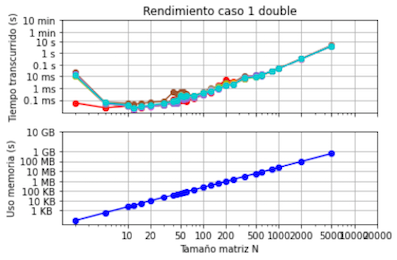
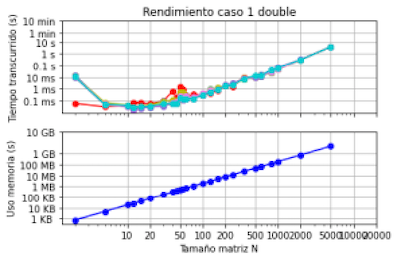
Entrega 4

Changed region(s): [[0.0, 0.4669, 0.9975, 0.9961], [0.0, 0.0, 0.9673, 0.4669]]

diff --git a/timing_inv_caso_1_longdouble.py b/timing_inv_caso_1_longdouble.py
@@ -31,7 +31,7 @@ for i in range(10):
     
         dt = t2 - t1
         
-        size = 3 * (n**2) * 8
+        size = 3 * (n**2) * 128
         
         dts.append(dt)
         memory.append(size)

diff --git a/timing_inv_caso_2_longdouble.py b/timing_inv_caso_2_longdouble.py
@@ -29,7 +29,7 @@ for i in range(10):
     
         dt = t2 - t1
         
-        size = 3 * (n**2) * 8
+        size = 3 * (n**2) * 128
         
         dts.append(dt)
         memory.append(size)

diff --git a/timing_inv_caso_3_longdouble.py b/timing_inv_caso_3_longdouble.py
@@ -29,7 +29,7 @@ for i in range(10):
     
         dt = t2 - t1
         
-        size = 3 * (n**2) * 8
+        size = 3 * (n**2) * 128
         
         dts.append(dt)
         memory.append(size)

diff --git a/timing_inv_caso_1_double.py b/timing_inv_caso_1_double.py
@@ -29,7 +29,7 @@ for i in range(10):
     
         dt = t2 - t1
         
-        size = 3 * (n**2) * 8
+        size = 3 * (n**2) * 64
         
         dts.append(dt)
         memory.append(size)

diff --git a/timing_inv_caso_1_half.py b/timing_inv_caso_1_half.py
@@ -29,7 +29,7 @@ for i in range(10):
     
         dt = t2 - t1
         
-        size = 3 * (n**2) * 8
+        size = 3 * (n**2) * 16
         
         dts.append(dt)
         memory.append(size)

diff --git a/timing_inv_caso_1_single.py b/timing_inv_caso_1_single.py
@@ -29,7 +29,7 @@ for i in range(10):
     
         dt = t2 - t1
         
-        size = 3 * (n**2) * 8
+        size = 3 * (n**2) * 32
         
         dts.append(dt)
         memory.append(size)

diff --git a/timing_inv_caso_2_double.py b/timing_inv_caso_2_double.py
@@ -29,7 +29,7 @@ for i in range(10):
     
         dt = t2 - t1
         
-        size = 3 * (n**2) * 8
+        size = 3 * (n**2) * 64
         
         dts.append(dt)
         memory.append(size)

diff --git a/timing_inv_caso_2_half.py b/timing_inv_caso_2_half.py
@@ -29,7 +29,7 @@ for i in range(10):
     
         dt = t2 - t1
         
-        size = 3 * (n**2) * 8
+        size = 3 * (n**2) * 16
         
         dts.append(dt)
         memory.append(size)

diff --git a/timing_inv_caso_2_single.py b/timing_inv_caso_2_single.py
@@ -29,7 +29,7 @@ for i in range(10):
     
         dt = t2 - t1
         
-        size = 3 * (n**2) * 8
+        size = 3 * (n**2) * 32
         
         dts.append(dt)
         memory.append(size)

diff --git a/timing_inv_caso_3_double.py b/timing_inv_caso_3_double.py
@@ -29,7 +29,7 @@ for i in range(10):
     
         dt = t2 - t1
         
-        size = 3 * (n**2) * 8
+        size = 3 * (n**2) * 64
         
         dts.append(dt)
         memory.append(size)

diff --git a/timing_inv_caso_3_half.py b/timing_inv_caso_3_half.py
@@ -29,7 +29,7 @@ for i in range(10):
     
         dt = t2 - t1
         
-        size = 3 * (n**2) * 8
+        size = 3 * (n**2) * 16
         
         dts.append(dt)
         memory.append(size)

diff --git a/timing_inv_caso_3_single.py b/timing_inv_caso_3_single.py
@@ -29,7 +29,7 @@ for i in range(10):
     
         dt = t2 - t1
         
-        size = 3 * (n**2) * 8
+        size = 3 * (n**2) * 32
         
         dts.append(dt)
         memory.append(size)
